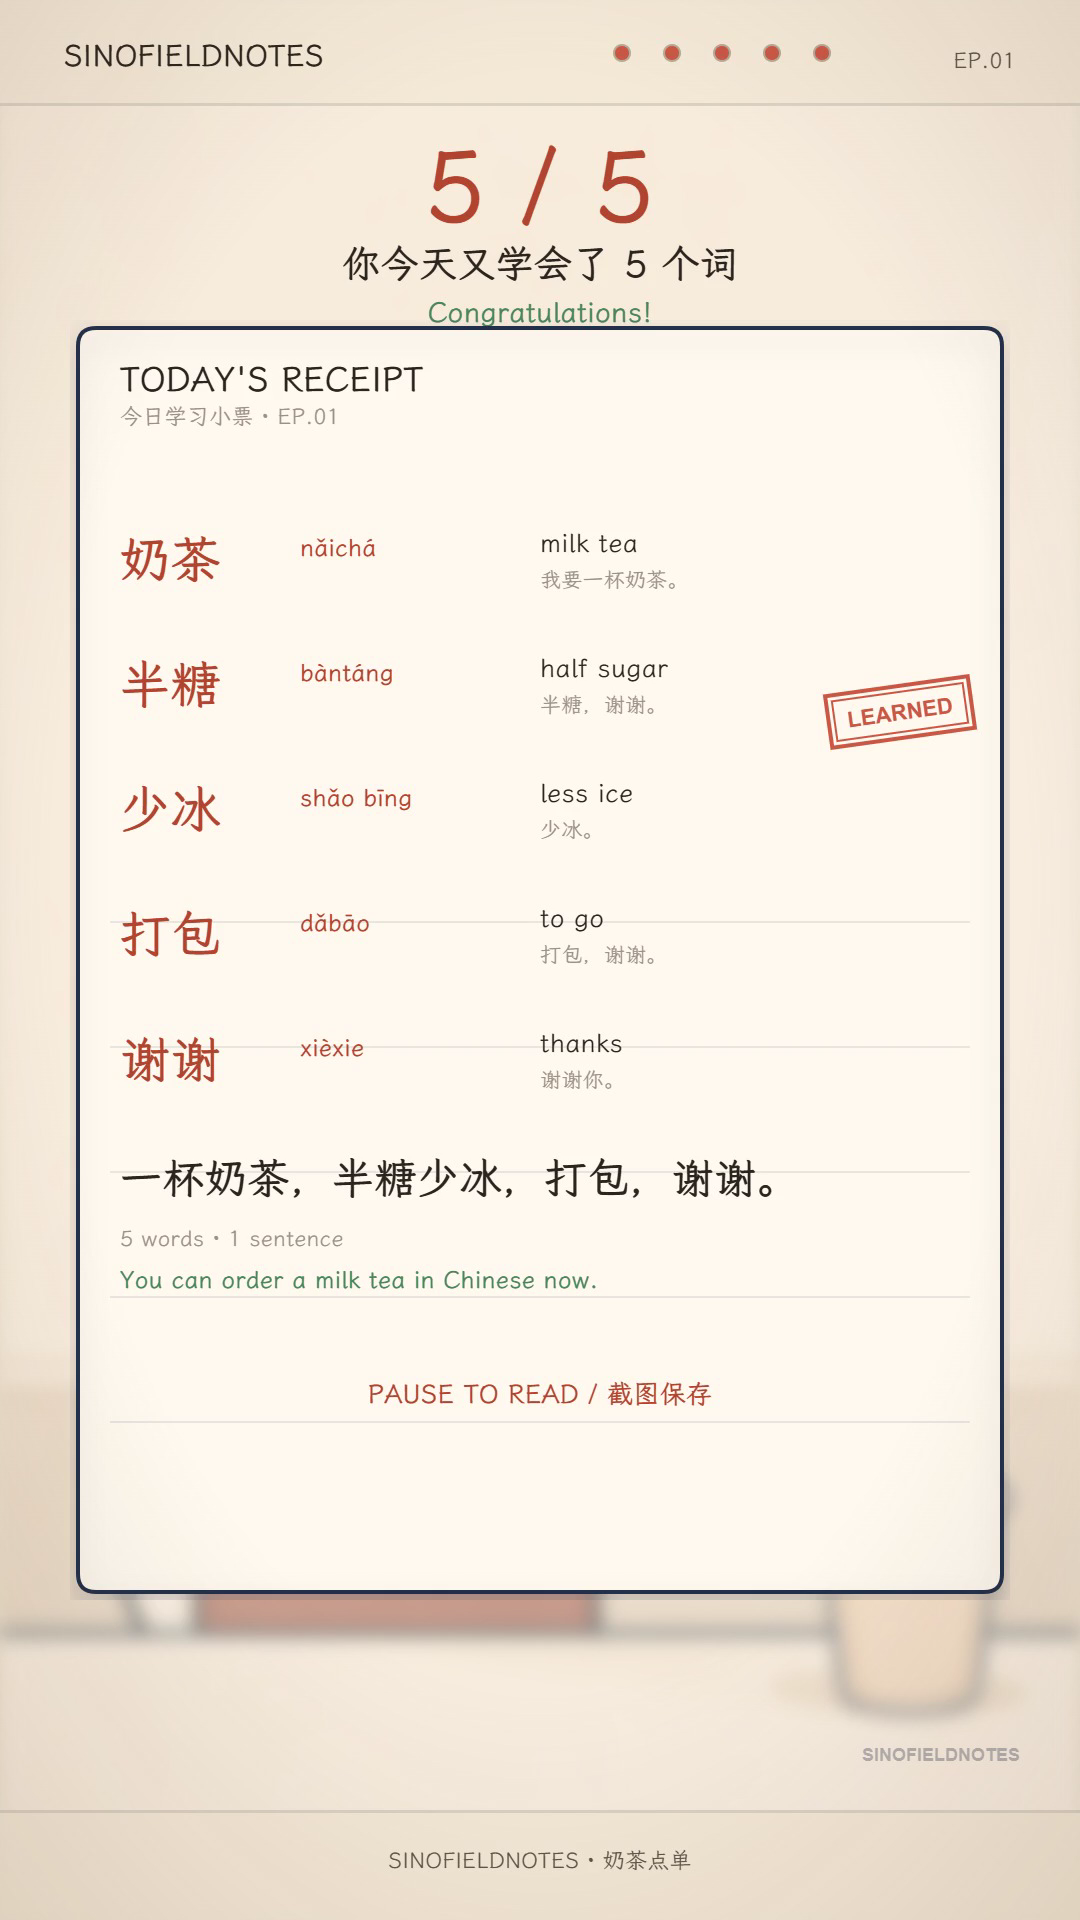
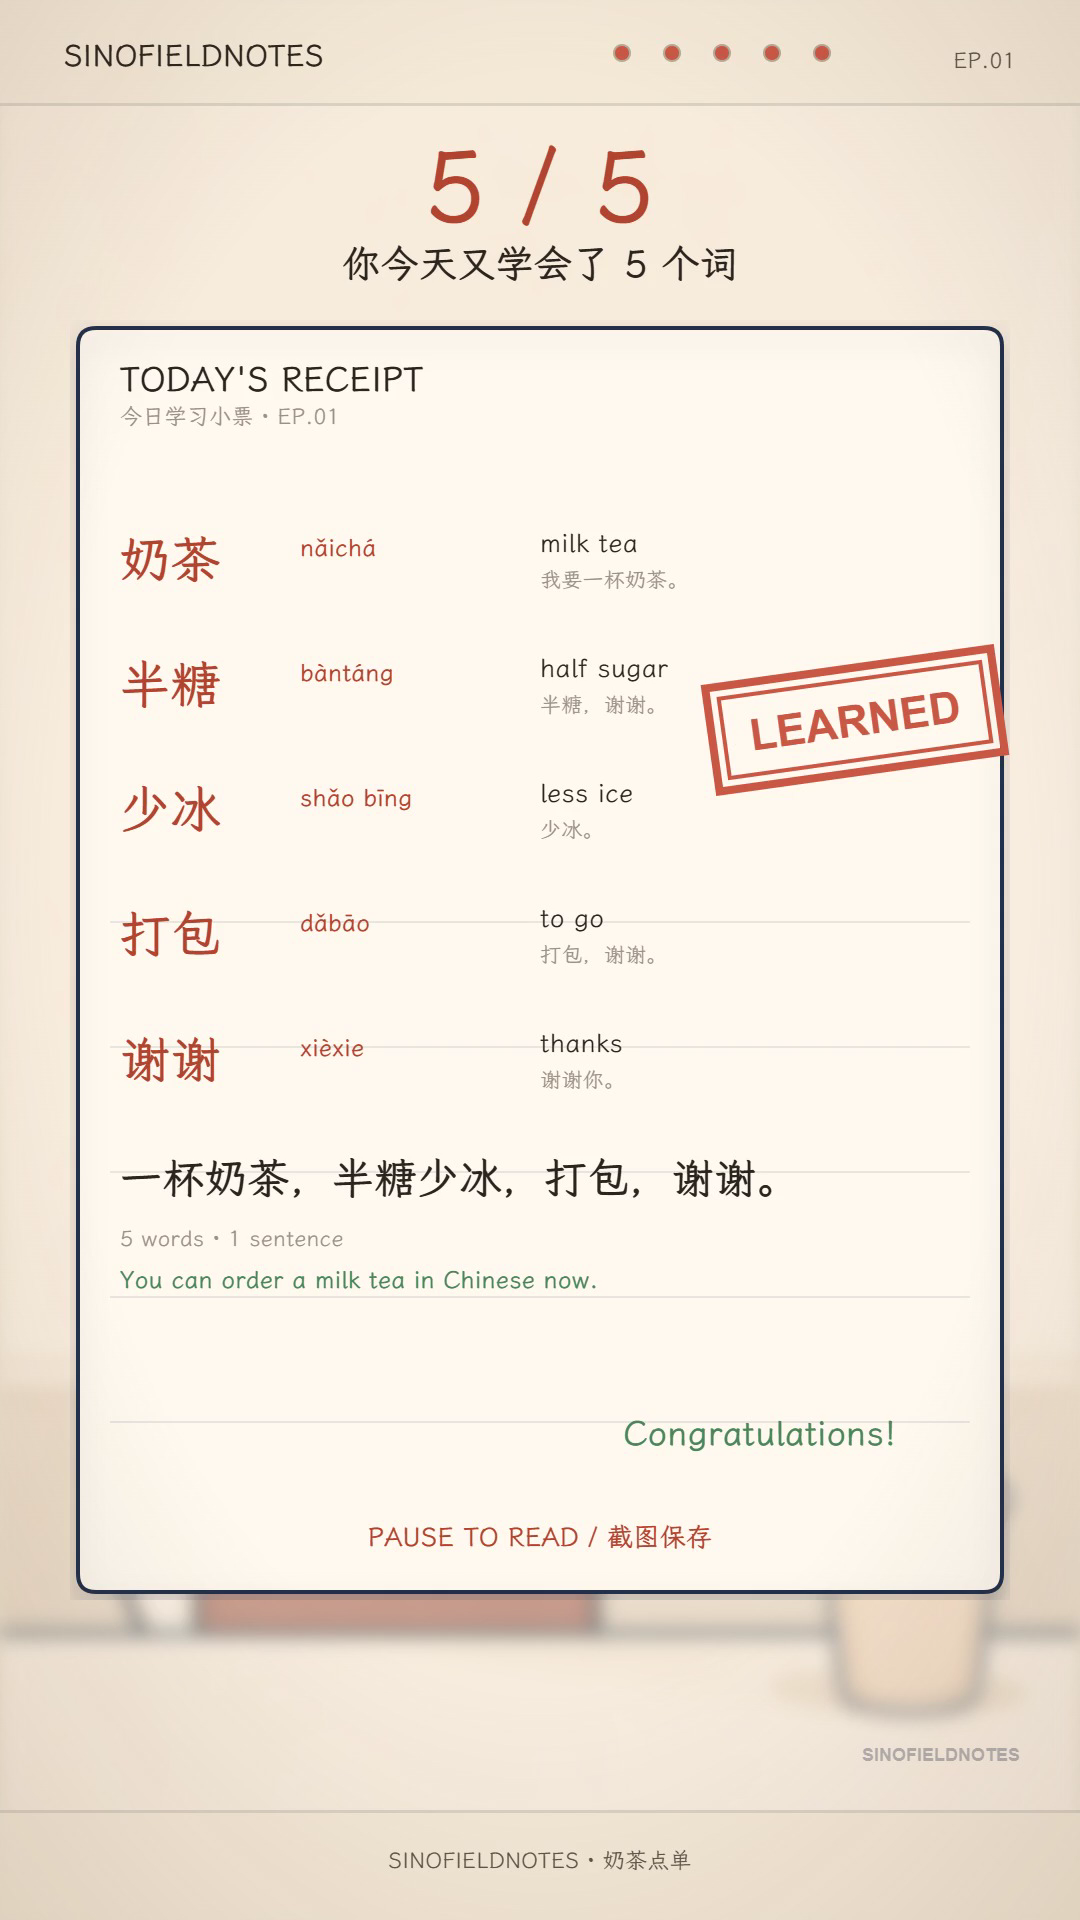
Enlarge LEARNED stamp and move congratulations

diff --git a/production/experiments/milk-tea-v3/pages-portrait/p08.js b/production/experiments/milk-tea-v3/pages-portrait/p08.js
@@ -53,9 +53,7 @@ ENGINE.visual('p08', (P) => {
   P.text('你今天又学会了 5 个词', {
     x: 540, y: 236, w: 900, align: 'c', size: 38, color: 'ink', weight: 600, at: t0 + 0.2, mode: 'fade',
   });
-  P.text('Congratulations!', {
-    x: 540, y: 292, w: 900, align: 'c', size: 28, color: 'green', weight: 600, at: t0 + 0.4, mode: 'fade',
-  });
+
 
   P.canvas(70, 320, 940, 1280, (ctx, lt) => {
     ctx.clearRect(0, 0, 940, 1280);
@@ -98,18 +96,18 @@ ENGINE.visual('p08', (P) => {
 
     // Learned stamp.
     ctx.save();
-    ctx.translate(830, 392);
+    ctx.translate(785, 400);
     ctx.rotate((-8 * Math.PI) / 180);
     ctx.strokeStyle = '#C95845';
+    ctx.lineWidth = 8;
+    ctx.strokeRect(-144, -52, 288, 104);
     ctx.lineWidth = 4;
-    ctx.strokeRect(-72, -26, 144, 52);
-    ctx.lineWidth = 2;
-    ctx.strokeRect(-66, -20, 132, 40);
+    ctx.strokeRect(-132, -40, 264, 80);
     ctx.fillStyle = '#C95845';
-    ctx.font = '700 22px Arial';
+    ctx.font = '700 44px Arial';
     ctx.textAlign = 'center';
     ctx.textBaseline = 'middle';
-    ctx.fillText('LEARNED', 0, 2);
+    ctx.fillText('LEARNED', 0, 4);
     ctx.restore();
     ctx.globalAlpha = 1;
   });
@@ -153,8 +151,11 @@ ENGINE.visual('p08', (P) => {
   P.text('You can order a milk tea in Chinese now.', {
     x: 120, y: 1262, w: 840, size: 24, color: 'green', weight: 600, at: tr + 0.65, mode: 'fade',
   });
+  P.text('Congratulations!', {
+    x: 760, y: 1408, w: 430, align: 'c', size: 34, color: 'green', weight: 600, at: tr + 0.7, mode: 'fade',
+  });
   P.text('PAUSE TO READ / 截图保存', {
-    x: 540, y: 1375, w: 900, align: 'c', size: 26, color: 'red', weight: 600, at: tr + 0.8, mode: 'fade',
+    x: 540, y: 1518, w: 900, align: 'c', size: 26, color: 'red', weight: 600, at: tr + 0.8, mode: 'fade',
   });
 
   P.canvas(720, 1738, 310, 36, (ctx) => {
